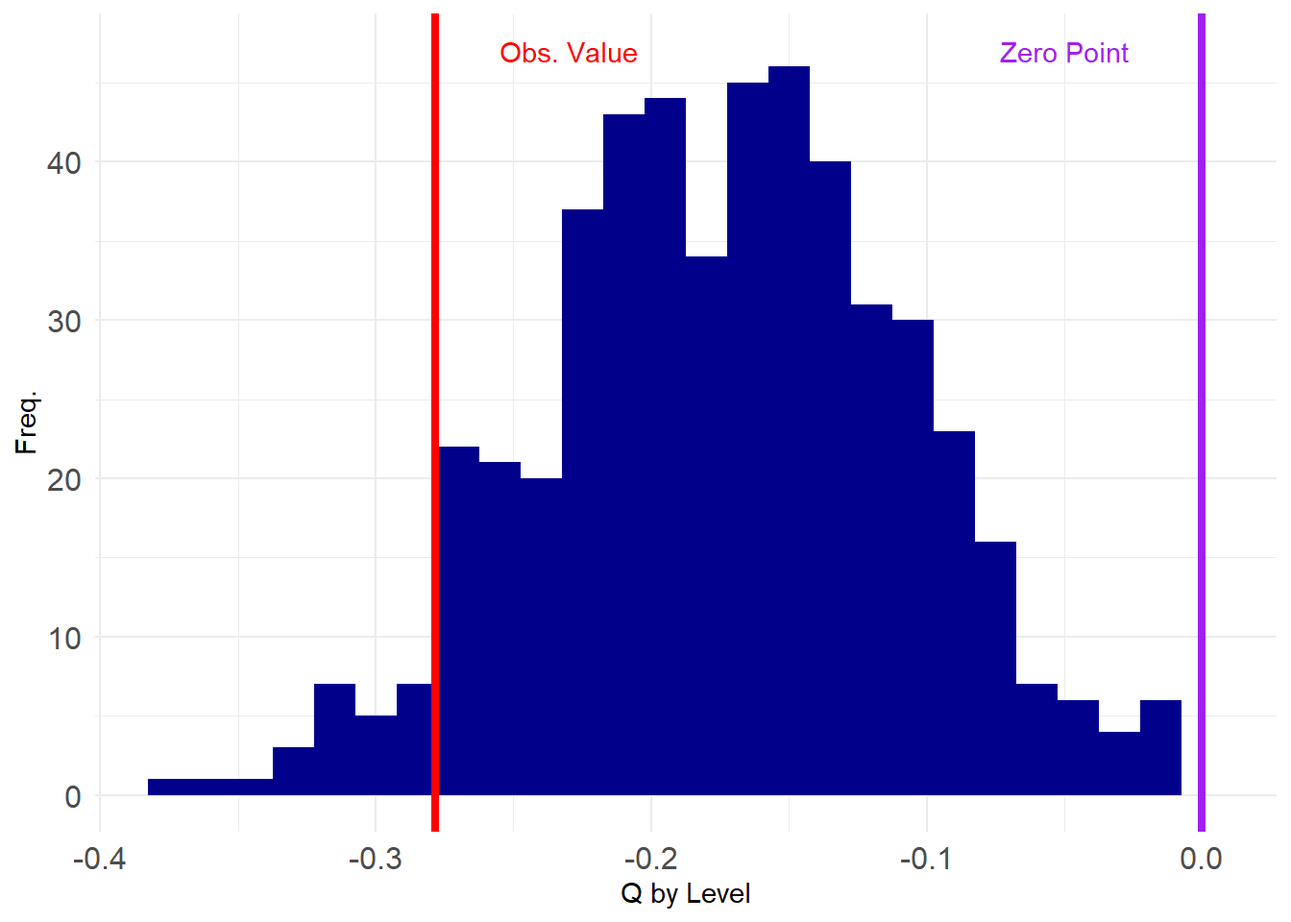
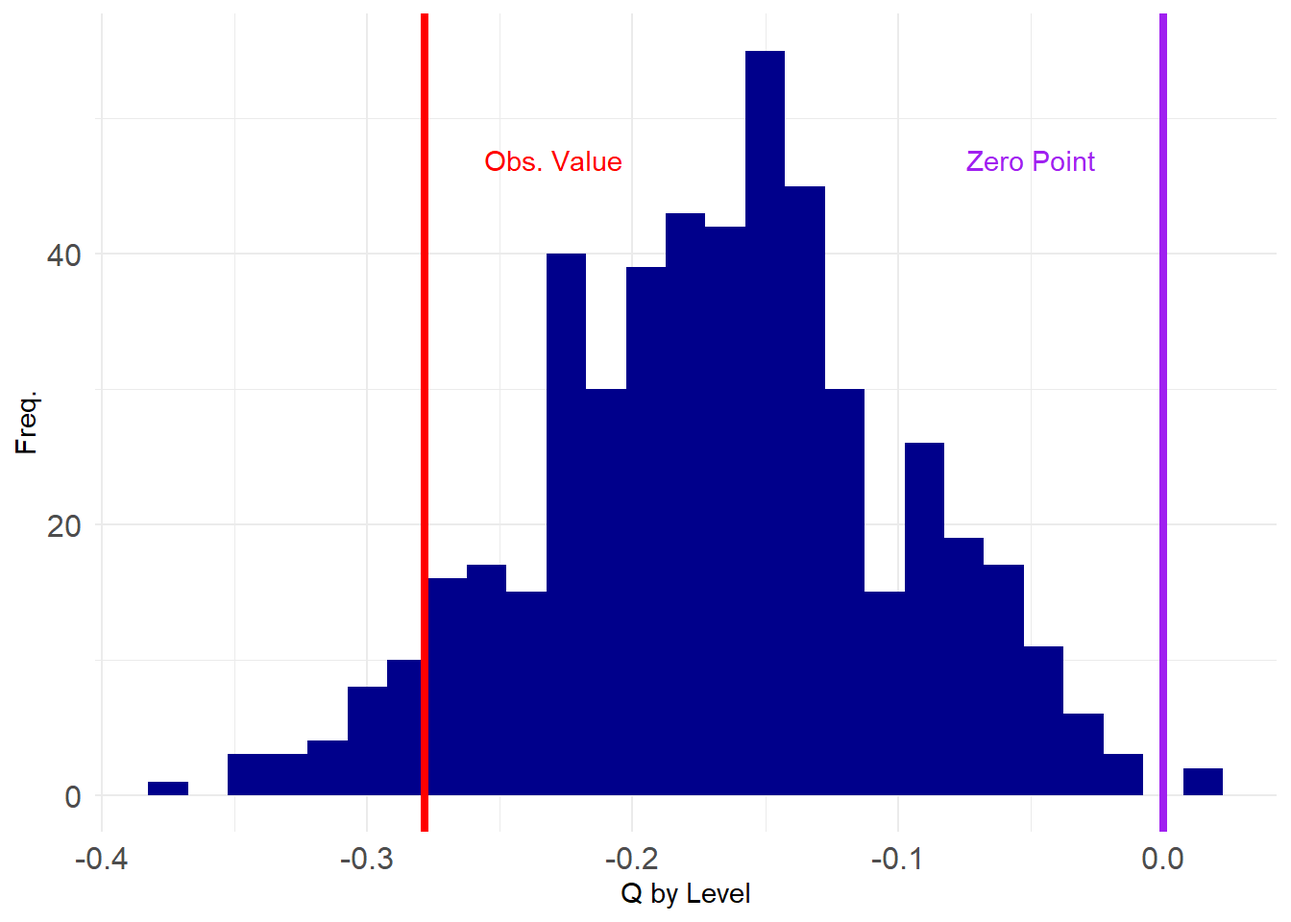
new stuff who dis

diff --git a/docs/tm-null.html b/docs/tm-null.html
@@ -401,7 +401,7 @@ div.csl-indent {
 <p>Not surprisingly, a similar suite of techniques exist for the two-mode case, but until recently various approaches were scattered (and reduplicated) across a bunch of literatures in social network analysis, ecology, network physics, and computer science <span class="citation" data-cites="neal_etal24">(<a href="#ref-neal_etal24" role="doc-biblioref">Neal et al. 2024</a>)</span>.</p>
 <section id="two-mode-erdos-renyi-model" class="level2">
 <h2 class="anchored" data-anchor-id="two-mode-erdos-renyi-model">Two-Mode Erdos-Renyi Model</h2>
-<p>Like with one-mode networks, the simplest null model for two-mode networks is one that preserves the number of nodes and the number of edges. This model, like we saw before, also preserves anything that is a function of these two-quantities. In the two-mode case, this is the bipartite graph’s <strong>density</strong> and the average degrees of the nodes in each mode (recall that two-mode networks have two average degrees). This is thus a two-mode version of the <strong>Erdos-Renyi</strong> null model.</p>
+<p>Like with one-mode networks, the simplest null model for two-mode networks is one that preserves the number of nodes and the number of edges. This model, like we saw in the one-mode network case, also preserves anything that is a function of these two-quantities. In the two-mode case, this is the bipartite graph’s <strong>density</strong> and the average degrees of the nodes in each mode (recall that two-mode networks have two average degrees). This is thus a two-mode version of the <strong>Erdos-Renyi</strong> null model.</p>
 <p>Let’s load up the <em>Southern Women</em> (SW) data and see how it works:</p>
 <div class="cell">
 <div class="sourceCode cell-code" id="cb1"><pre class="sourceCode numberSource r number-lines code-with-copy"><code class="sourceCode r"><span id="cb1-1"><a href="#cb1-1"></a>   <span class="fu">library</span>(igraph)</span>
@@ -441,7 +441,7 @@ div.csl-indent {
 </div>
 <p>Which is negative, suggesting degree <strong>anti-correlation</strong> in this network (people with lots of memberships tend to belong to smaller groups).</p>
 <p>Is this value statistically significant net of the network density? To find out, we need to create a <strong>two-mode graph ensemble</strong> of networks with the same density, number of persons, and number of groups as SW.</p>
-<p>A simple approach goes like this: first, let’s create a vectorized version of the adjacency matrix:</p>
+<p>A simple approach goes like this: First, let’s create a vectorized version of the adjacency matrix:</p>
 <div class="cell">
 <div class="sourceCode cell-code" id="cb10"><pre class="sourceCode numberSource r number-lines code-with-copy"><code class="sourceCode r"><span id="cb10-1"><a href="#cb10-1"></a>   v.a <span class="ot">&lt;-</span> <span class="fu">as.vector</span>(A)</span>
 <span id="cb10-2"><a href="#cb10-2"></a>   v.a</span></code><button title="Copy to Clipboard" class="code-copy-button"><i class="bi"></i></button></pre></div>
@@ -455,7 +455,7 @@ div.csl-indent {
 [223] 0 0 0 0 0 1 1 1 0 0 0 0 0 0 0 0 0 0 0 0 0 0 0 1 1 1 0 0 0 0</code></pre>
 </div>
 </div>
-<p>These are the biadjacency matrix entries stretched out into a long vector of length equals to the number of rows multiplied by the number of columns of the matrix.</p>
+<p>These are the biadjacency matrix entries stretched out into a long vector of length equal to the number of rows multiplied by the number of columns of the matrix.</p>
 <p>Then we just reshuffle the values of this vector by sampling vector positions:</p>
 <div class="cell">
 <div class="sourceCode cell-code" id="cb12"><pre class="sourceCode numberSource r number-lines code-with-copy"><code class="sourceCode r"><span id="cb12-1"><a href="#cb12-1"></a>   v.shuff <span class="ot">&lt;-</span> v.a[<span class="fu">sample</span>(<span class="dv">1</span><span class="sc">:</span><span class="fu">length</span>(v.a))]</span></code><button title="Copy to Clipboard" class="code-copy-button"><i class="bi"></i></button></pre></div>
@@ -468,24 +468,24 @@ div.csl-indent {
 <span id="cb13-4"><a href="#cb13-4"></a>   A.perm</span></code><button title="Copy to Clipboard" class="code-copy-button"><i class="bi"></i></button></pre></div>
 <div class="cell-output cell-output-stdout">
 <pre><code>          6/27 3/2 4/12 9/26 2/25 5/19 3/15 9/16 4/8 6/10 2/23 4/7 11/21 8/3
-EVELYN       0   1    1    1    0    0    1    0   0    0    0   0     0   0
-LAURA        1   0    0    0    0    1    0    1   1    1    0   1     0   0
-THERESA      0   0    0    0    0    0    0    0   1    0    1   0     0   1
-BRENDA       1   0    0    0    1    0    0    1   0    0    0   0     1   1
-CHARLOTTE    0   0    1    0    0    0    1    0   0    0    1   0     1   1
-FRANCES      1   0    0    1    0    1    1    1   0    1    0   0     0   1
-ELEANOR      0   1    0    0    0    1    0    0   1    0    0   0     0   0
-PEARL        0   0    1    1    1    0    1    0   0    0    0   1     0   0
-RUTH         0   0    0    1    0    0    0    0   0    0    0   0     1   0
-VERNE        1   1    1    1    0    1    1    0   1    0    0   1     0   0
-MYRNA        0   1    1    0    0    0    0    0   1    1    0   1     0   1
-KATHERINE    0   1    0    0    1    1    1    0   1    0    0   1     1   0
-SYLVIA       0   0    0    1    0    0    0    1   1    0    1   0     0   0
-NORA         0   0    1    0    1    1    0    0   1    0    0   0     1   0
-HELEN        1   0    1    0    0    1    0    1   0    0    0   0     1   0
-DOROTHY      1   0    0    0    1    1    1    0   0    1    1   0     0   0
-OLIVIA       1   0    0    0    0    0    0    0   0    1    1   0     0   0
-FLORA        0   0    1    0    0    0    1    0   0    0    1   1     1   0</code></pre>
+EVELYN       0   0    1    0    0    0    1    0   1    0    0   1     1   0
+LAURA        0   0    0    1    0    0    1    0   0    0    0   0     1   1
+THERESA      1   0    1    1    0    0    0    0   1    0    1   0     0   0
+BRENDA       0   1    0    0    0    0    0    1   1    1    1   0     0   0
+CHARLOTTE    0   1    1    0    1    0    0    0   0    0    0   0     0   1
+FRANCES      0   1    0    0    0    0    1    1   0    0    0   0     1   0
+ELEANOR      0   1    0    0    1    0    1    0   1    0    0   0     0   1
+PEARL        1   0    1    0    1    0    0    0   1    0    1   0     1   1
+RUTH         0   0    0    0    0    0    0    1   0    0    1   0     0   1
+VERNE        0   0    0    1    1    1    0    1   0    0    1   1     1   1
+MYRNA        0   1    1    0    0    1    1    1   1    0    0   1     0   1
+KATHERINE    0   0    1    1    0    1    0    1   0    0    0   0     0   1
+SYLVIA       1   0    1    0    1    0    0    0   0    1    0   0     0   0
+NORA         0   1    1    1    0    0    0    0   1    1    0   0     0   0
+HELEN        0   0    1    0    1    0    1    0   1    0    1   0     0   0
+DOROTHY      1   0    1    0    1    1    0    0   0    0    0   0     0   0
+OLIVIA       0   1    0    0    0    1    1    0   0    0    0   0     0   1
+FLORA        1   0    0    0    0    0    0    1   0    1    0   0     0   1</code></pre>
 </div>
 </div>
 <p>We can verify that <code>A.perm</code> has the same basic network statistics as <code>A</code>:</p>
@@ -520,11 +520,11 @@ FLORA        0   0    1    0    0    0    1    0   0    0    1   1     1   0</co
 <div class="sourceCode cell-code" id="cb23"><pre class="sourceCode numberSource r number-lines code-with-copy"><code class="sourceCode r"><span id="cb23-1"><a href="#cb23-1"></a>   <span class="fu">rowSums</span>(A.perm)</span></code><button title="Copy to Clipboard" class="code-copy-button"><i class="bi"></i></button></pre></div>
 <div class="cell-output cell-output-stdout">
 <pre><code>   EVELYN     LAURA   THERESA    BRENDA CHARLOTTE   FRANCES   ELEANOR     PEARL 
-        4         6         3         5         5         7         3         5 
+        5         4         5         5         4         4         5         7 
      RUTH     VERNE     MYRNA KATHERINE    SYLVIA      NORA     HELEN   DOROTHY 
-        2         8         6         7         4         5         5         6 
+        3         8         8         5         4         5         5         4 
    OLIVIA     FLORA 
-        3         5 </code></pre>
+        4         4 </code></pre>
 </div>
 <div class="sourceCode cell-code" id="cb25"><pre class="sourceCode numberSource r number-lines code-with-copy"><code class="sourceCode r"><span id="cb25-1"><a href="#cb25-1"></a>   <span class="fu">colSums</span>(A)</span></code><button title="Copy to Clipboard" class="code-copy-button"><i class="bi"></i></button></pre></div>
 <div class="cell-output cell-output-stdout">
@@ -536,9 +536,9 @@ FLORA        0   0    1    0    0    0    1    0   0    0    1   1     1   0</co
 <div class="sourceCode cell-code" id="cb27"><pre class="sourceCode numberSource r number-lines code-with-copy"><code class="sourceCode r"><span id="cb27-1"><a href="#cb27-1"></a>   <span class="fu">colSums</span>(A.perm)</span></code><button title="Copy to Clipboard" class="code-copy-button"><i class="bi"></i></button></pre></div>
 <div class="cell-output cell-output-stdout">
 <pre><code> 6/27   3/2  4/12  9/26  2/25  5/19  3/15  9/16   4/8  6/10  2/23   4/7 11/21 
-    7     5     8     6     5     8     8     5     8     5     6     6     7 
+    5     7    10     5     7     5     7     7     8     4     6     3     5 
   8/3 
-    5 </code></pre>
+   10 </code></pre>
 </div>
 </div>
 <p>We can now package the two-mode permutation steps into a function called <code>tm.perm</code>:</p>
@@ -802,7 +802,7 @@ FALSE </code></pre>
 <pre><code>[1] 0.012</code></pre>
 </div>
 </div>
-<p>Note that our result is not longer statistically significant at the <span class="math inline">\(p &lt;0.01\)</span> level, but it can be defended at the <span class="math inline">\(p &lt; 0.05\)</span> level. Still a chance of getting published.</p>
+<p>Note that our result is no longer statistically significant at the <span class="math inline">\(p &lt;0.01\)</span> level, but it can be defended at the <span class="math inline">\(p &lt; 0.05\)</span> level. Still a chance of getting published.</p>
 </section>
 <section id="fixing-column-degrees" class="level3">
 <h3 class="anchored" data-anchor-id="fixing-column-degrees">Fixing Column Degrees</h3>
@@ -920,31 +920,32 @@ FALSE </code></pre>
 <div class="sourceCode cell-code" id="cb83"><pre class="sourceCode numberSource r number-lines code-with-copy"><code class="sourceCode r"><span id="cb83-1"><a href="#cb83-1"></a>   make.swap <span class="ot">&lt;-</span> <span class="cf">function</span>(x, <span class="at">k =</span> <span class="dv">500</span>) {</span>
 <span id="cb83-2"><a href="#cb83-2"></a>      z <span class="ot">&lt;-</span> <span class="dv">1</span> <span class="co">#initializing counter</span></span>
 <span id="cb83-3"><a href="#cb83-3"></a>      <span class="cf">while</span>(z <span class="sc">&lt;=</span> k) {</span>
-<span id="cb83-4"><a href="#cb83-4"></a>         a <span class="ot">&lt;-</span> <span class="fu">sample</span>(<span class="fu">rownames</span>(x), <span class="dv">1</span>) <span class="co">#selecting random person </span></span>
-<span id="cb83-5"><a href="#cb83-5"></a>         b <span class="ot">&lt;-</span> <span class="fu">sample</span>(<span class="fu">rownames</span>(x), <span class="dv">1</span>) <span class="co">#selecting random person</span></span>
-<span id="cb83-6"><a href="#cb83-6"></a>         a.m <span class="ot">&lt;-</span> <span class="fu">names</span>(<span class="fu">which</span>(x[a, ] <span class="sc">==</span> <span class="dv">1</span>)) <span class="co">#person a's memberships</span></span>
-<span id="cb83-7"><a href="#cb83-7"></a>         b.m <span class="ot">&lt;-</span> <span class="fu">names</span>(<span class="fu">which</span>(x[b, ] <span class="sc">==</span> <span class="dv">1</span>)) <span class="co">#person b's memberships</span></span>
-<span id="cb83-8"><a href="#cb83-8"></a>         ab <span class="ot">&lt;-</span> <span class="fu">setdiff</span>(a.m, b.m) <span class="co">#memberships that a has that b does not</span></span>
-<span id="cb83-9"><a href="#cb83-9"></a>         ba <span class="ot">&lt;-</span> <span class="fu">setdiff</span>(b.m, a.m) <span class="co">#memberships that b has that a does not</span></span>
-<span id="cb83-10"><a href="#cb83-10"></a>         w <span class="ot">&lt;-</span> <span class="fu">sample</span>(<span class="dv">0</span><span class="sc">:</span><span class="fu">min</span>(<span class="fu">length</span>(ab), <span class="fu">length</span>(ba)), <span class="at">size =</span> <span class="dv">1</span>) <span class="co">#number of rounds of trade</span></span>
-<span id="cb83-11"><a href="#cb83-11"></a>         <span class="cf">if</span> (w <span class="sc">&gt;</span> <span class="dv">0</span>) {</span>
-<span id="cb83-12"><a href="#cb83-12"></a>            <span class="cf">for</span> (i <span class="cf">in</span> <span class="dv">1</span><span class="sc">:</span>w) {</span>
-<span id="cb83-13"><a href="#cb83-13"></a>               ab.m <span class="ot">&lt;-</span> <span class="fu">sample</span>(ab, <span class="dv">1</span>) <span class="co">#membership that a will transfer to b</span></span>
-<span id="cb83-14"><a href="#cb83-14"></a>               ba.m <span class="ot">&lt;-</span> <span class="fu">sample</span>(ba, <span class="dv">1</span>) <span class="co">#membership that b will transfer to a</span></span>
-<span id="cb83-15"><a href="#cb83-15"></a>               x[a, ab.m] <span class="ot">&lt;-</span> <span class="dv">0</span> <span class="co">#a loses membership</span></span>
-<span id="cb83-16"><a href="#cb83-16"></a>               x[b, ab.m] <span class="ot">&lt;-</span> <span class="dv">1</span> <span class="co">#b gains membership</span></span>
-<span id="cb83-17"><a href="#cb83-17"></a>               x[b, ba.m] <span class="ot">&lt;-</span> <span class="dv">0</span> <span class="co">#b loses membership</span></span>
-<span id="cb83-18"><a href="#cb83-18"></a>               x[a, ba.m] <span class="ot">&lt;-</span> <span class="dv">1</span> <span class="co">#a gains membership</span></span>
-<span id="cb83-19"><a href="#cb83-19"></a>               a.m <span class="ot">&lt;-</span> <span class="fu">names</span>(<span class="fu">which</span>(x[a, ] <span class="sc">==</span> <span class="dv">1</span>)) <span class="co">#updating a's memberships</span></span>
-<span id="cb83-20"><a href="#cb83-20"></a>               b.m <span class="ot">&lt;-</span> <span class="fu">names</span>(<span class="fu">which</span>(x[b, ] <span class="sc">==</span> <span class="dv">1</span>)) <span class="co">#updating b's memberships</span></span>
-<span id="cb83-21"><a href="#cb83-21"></a>               ab <span class="ot">&lt;-</span> <span class="fu">setdiff</span>(a.m, b.m) <span class="co">#updating differences between a and b's memberships</span></span>
-<span id="cb83-22"><a href="#cb83-22"></a>               ba <span class="ot">&lt;-</span> <span class="fu">setdiff</span>(b.m, a.m) <span class="co">#updating differences between b and a's memberships</span></span>
-<span id="cb83-23"><a href="#cb83-23"></a>               }</span>
-<span id="cb83-24"><a href="#cb83-24"></a>            }</span>
-<span id="cb83-25"><a href="#cb83-25"></a>         z <span class="ot">&lt;-</span> z <span class="sc">+</span> <span class="dv">1</span> <span class="co">#incrementing counter</span></span>
-<span id="cb83-26"><a href="#cb83-26"></a>         }</span>
-<span id="cb83-27"><a href="#cb83-27"></a>      <span class="fu">return</span>(x)</span>
-<span id="cb83-28"><a href="#cb83-28"></a>   }</span></code><button title="Copy to Clipboard" class="code-copy-button"><i class="bi"></i></button></pre></div>
+<span id="cb83-4"><a href="#cb83-4"></a>         n <span class="ot">&lt;-</span> <span class="fu">sample</span>(<span class="fu">rownames</span>(x), <span class="dv">2</span>) <span class="co">#sampling two people at random</span></span>
+<span id="cb83-5"><a href="#cb83-5"></a>         a <span class="ot">&lt;-</span> n[<span class="dv">1</span>] <span class="co">#person a</span></span>
+<span id="cb83-6"><a href="#cb83-6"></a>         b <span class="ot">&lt;-</span> n[<span class="dv">2</span>] <span class="co">#person b</span></span>
+<span id="cb83-7"><a href="#cb83-7"></a>         a.m <span class="ot">&lt;-</span> <span class="fu">names</span>(<span class="fu">which</span>(x[a, ] <span class="sc">==</span> <span class="dv">1</span>)) <span class="co">#person a's memberships</span></span>
+<span id="cb83-8"><a href="#cb83-8"></a>         b.m <span class="ot">&lt;-</span> <span class="fu">names</span>(<span class="fu">which</span>(x[b, ] <span class="sc">==</span> <span class="dv">1</span>)) <span class="co">#person b's memberships</span></span>
+<span id="cb83-9"><a href="#cb83-9"></a>         ab <span class="ot">&lt;-</span> <span class="fu">setdiff</span>(a.m, b.m) <span class="co">#memberships that a has that b does not</span></span>
+<span id="cb83-10"><a href="#cb83-10"></a>         ba <span class="ot">&lt;-</span> <span class="fu">setdiff</span>(b.m, a.m) <span class="co">#memberships that b has that a does not</span></span>
+<span id="cb83-11"><a href="#cb83-11"></a>         w <span class="ot">&lt;-</span> <span class="fu">sample</span>(<span class="dv">0</span><span class="sc">:</span><span class="fu">min</span>(<span class="fu">length</span>(ab), <span class="fu">length</span>(ba)), <span class="at">size =</span> <span class="dv">1</span>) <span class="co">#number of rounds of trade</span></span>
+<span id="cb83-12"><a href="#cb83-12"></a>         <span class="cf">if</span> (w <span class="sc">&gt;</span> <span class="dv">0</span>) {</span>
+<span id="cb83-13"><a href="#cb83-13"></a>            <span class="cf">for</span> (i <span class="cf">in</span> <span class="dv">1</span><span class="sc">:</span>w) {</span>
+<span id="cb83-14"><a href="#cb83-14"></a>               ab.m <span class="ot">&lt;-</span> <span class="fu">sample</span>(ab, <span class="dv">1</span>) <span class="co">#membership that a will transfer to b</span></span>
+<span id="cb83-15"><a href="#cb83-15"></a>               ba.m <span class="ot">&lt;-</span> <span class="fu">sample</span>(ba, <span class="dv">1</span>) <span class="co">#membership that b will transfer to a</span></span>
+<span id="cb83-16"><a href="#cb83-16"></a>               x[a, ab.m] <span class="ot">&lt;-</span> <span class="dv">0</span> <span class="co">#a loses membership</span></span>
+<span id="cb83-17"><a href="#cb83-17"></a>               x[b, ab.m] <span class="ot">&lt;-</span> <span class="dv">1</span> <span class="co">#b gains membership</span></span>
+<span id="cb83-18"><a href="#cb83-18"></a>               x[b, ba.m] <span class="ot">&lt;-</span> <span class="dv">0</span> <span class="co">#b loses membership</span></span>
+<span id="cb83-19"><a href="#cb83-19"></a>               x[a, ba.m] <span class="ot">&lt;-</span> <span class="dv">1</span> <span class="co">#a gains membership</span></span>
+<span id="cb83-20"><a href="#cb83-20"></a>               a.m <span class="ot">&lt;-</span> <span class="fu">names</span>(<span class="fu">which</span>(x[a, ] <span class="sc">==</span> <span class="dv">1</span>)) <span class="co">#updating a's memberships</span></span>
+<span id="cb83-21"><a href="#cb83-21"></a>               b.m <span class="ot">&lt;-</span> <span class="fu">names</span>(<span class="fu">which</span>(x[b, ] <span class="sc">==</span> <span class="dv">1</span>)) <span class="co">#updating b's memberships</span></span>
+<span id="cb83-22"><a href="#cb83-22"></a>               ab <span class="ot">&lt;-</span> <span class="fu">setdiff</span>(a.m, b.m) <span class="co">#updating differences between a and b's memberships</span></span>
+<span id="cb83-23"><a href="#cb83-23"></a>               ba <span class="ot">&lt;-</span> <span class="fu">setdiff</span>(b.m, a.m) <span class="co">#updating differences between b and a's memberships</span></span>
+<span id="cb83-24"><a href="#cb83-24"></a>               }</span>
+<span id="cb83-25"><a href="#cb83-25"></a>            }</span>
+<span id="cb83-26"><a href="#cb83-26"></a>         z <span class="ot">&lt;-</span> z <span class="sc">+</span> <span class="dv">1</span> <span class="co">#incrementing counter</span></span>
+<span id="cb83-27"><a href="#cb83-27"></a>         }</span>
+<span id="cb83-28"><a href="#cb83-28"></a>      <span class="fu">return</span>(x)</span>
+<span id="cb83-29"><a href="#cb83-29"></a>   }</span></code><button title="Copy to Clipboard" class="code-copy-button"><i class="bi"></i></button></pre></div>
 </div>
 <p>Here’s an example:</p>
 <div class="cell">
@@ -952,24 +953,24 @@ FALSE </code></pre>
 <span id="cb84-2"><a href="#cb84-2"></a>   A.s</span></code><button title="Copy to Clipboard" class="code-copy-button"><i class="bi"></i></button></pre></div>
 <div class="cell-output cell-output-stdout">
 <pre><code>          6/27 3/2 4/12 9/26 2/25 5/19 3/15 9/16 4/8 6/10 2/23 4/7 11/21 8/3
-EVELYN       0   1    1    0    0    1    1    1   0    1    0   1     0   1
-LAURA        0   1    0    0    1    1    0    1   0    1    1   1     0   0
-THERESA      0   0    0    1    1    0    1    1   1    1    0   1     1   0
-BRENDA       0   1    0    0    1    1    1    1   1    0    1   0     0   0
-CHARLOTTE    0   0    0    0    1    0    0    1   1    0    0   0     0   1
-FRANCES      0   0    0    0    0    1    1    1   1    0    0   0     0   0
-ELEANOR      0   0    1    0    1    1    0    0   1    0    0   0     0   0
-PEARL        0   0    0    0    0    1    1    1   0    0    0   0     0   0
-RUTH         1   0    0    0    1    0    0    0   1    1    0   0     0   0
-VERNE        0   0    0    0    0    0    1    1   1    0    0   1     0   0
-MYRNA        0   0    1    0    0    0    1    1   1    0    0   0     0   0
-KATHERINE    1   0    0    1    0    0    1    0   1    0    1   0     0   1
-SYLVIA       1   0    1    0    0    1    0    1   0    0    1   1     1   0
-NORA         0   0    1    1    0    1    1    1   1    0    0   1     1   0
-HELEN        0   0    1    1    1    0    1    1   0    0    0   0     0   0
-DOROTHY      0   0    0    0    0    0    0    1   1    0    0   0     0   0
-OLIVIA       0   0    0    0    1    0    0    1   0    0    0   0     0   0
-FLORA        0   0    0    0    0    0    0    0   1    1    0   0     0   0</code></pre>
+EVELYN       1   0    1    1    1    0    0    1   1    0    0   1     1   0
+LAURA        0   1    0    0    1    0    0    1   1    0    1   1     0   1
+THERESA      0   0    1    0    0    0    1    1   1    1    0   1     1   1
+BRENDA       1   0    1    0    0    1    0    1   1    1    1   0     0   0
+CHARLOTTE    0   0    0    0    1    1    0    1   1    0    0   0     0   0
+FRANCES      0   0    0    0    0    1    1    1   0    1    0   0     0   0
+ELEANOR      0   0    0    0    0    1    1    1   0    0    0   1     0   0
+PEARL        0   0    0    1    0    0    0    1   1    0    0   0     0   0
+RUTH         0   0    0    0    1    0    1    1   1    0    0   0     0   0
+VERNE        0   0    0    1    0    0    0    1   0    1    0   0     0   1
+MYRNA        0   0    0    0    0    0    1    1   0    1    0   1     0   0
+KATHERINE    0   1    1    0    1    0    1    1   1    0    0   0     0   0
+SYLVIA       1   0    1    1    0    1    0    1   1    0    0   0     1   0
+NORA         0   1    0    0    1    1    1    1   1    0    1   1     0   0
+HELEN        0   0    1    0    1    1    1    0   1    0    0   0     0   0
+DOROTHY      0   0    0    0    0    1    1    0   0    0    0   0     0   0
+OLIVIA       0   0    0    0    1    0    0    0   0    0    1   0     0   0
+FLORA        0   0    0    0    0    0    1    0   1    0    0   0     0   0</code></pre>
 </div>
 </div>
 <p>We can see that while the specifc entries of the swapped biadjacency matrix <code>A.s</code> are different from those of the original matrix <code>A</code> both the row and column degrees are preserved:</p>
@@ -1028,7 +1029,8 @@ FLORA        0   0    0    0    0    0    0    0   1    1    0   0     0   0</co
 <p><img src="tm-null_files/figure-html/unnamed-chunk-35-1.png" class="img-fluid" width="672"></p>
 </div>
 </div>
-<p>Note that once we fix the person and group degrees, all the degree correlations observed in the ensemble are negative (below zero). The observed value also does not look as extreme as with the Erdos-Renyi or fixed degree model for either rows or columns separately. Let’s check the p-value:</p>
+<p>Note that once we fix the person and group degrees, most of the degree correlations observed in the ensemble are negative (below zero). The observed value also does not look as extreme as with the Erdos-Renyi or fixed degree model for either rows or columns separately.</p>
+<p>Let’s check the p-value at <span class="math inline">\(p &lt; 0.01\)</span>:</p>
 <div class="cell">
 <div class="sourceCode cell-code" id="cb95"><pre class="sourceCode numberSource r number-lines code-with-copy"><code class="sourceCode r"><span id="cb95-1"><a href="#cb95-1"></a>   <span class="fu">quantile</span>(corrs, <span class="at">probs =</span> <span class="fl">0.01</span>)</span></code><button title="Copy to Clipboard" class="code-copy-button"><i class="bi"></i></button></pre></div>
 <div class="cell-output cell-output-stdout">
@@ -1040,12 +1042,28 @@ FLORA        0   0    0    0    0    0    0    0   1    1    0   0     0   0</co
 <pre><code>   1% 
 FALSE </code></pre>
 </div>
-<div class="sourceCode cell-code" id="cb99"><pre class="sourceCode numberSource r number-lines code-with-copy"><code class="sourceCode r"><span id="cb99-1"><a href="#cb99-1"></a>   <span class="dv">1</span> <span class="sc">-</span> <span class="fu">ecdf</span>(<span class="fu">abs</span>(corrs))(<span class="fu">abs</span>(<span class="fu">tm.deg.corr</span>(A)))</span></code><button title="Copy to Clipboard" class="code-copy-button"><i class="bi"></i></button></pre></div>
+</div>
+<p>Not close to significant it seems. How about <span class="math inline">\(p &lt; 0.05\)</span>?</p>
+<div class="cell">
+<div class="sourceCode cell-code" id="cb99"><pre class="sourceCode numberSource r number-lines code-with-copy"><code class="sourceCode r"><span id="cb99-1"><a href="#cb99-1"></a>   <span class="fu">quantile</span>(corrs, <span class="at">probs =</span> <span class="fl">0.05</span>)</span></code><button title="Copy to Clipboard" class="code-copy-button"><i class="bi"></i></button></pre></div>
 <div class="cell-output cell-output-stdout">
-<pre><code>[1] 0.048</code></pre>
+<pre><code>        5% 
+-0.2830088 </code></pre>
+</div>
+<div class="sourceCode cell-code" id="cb101"><pre class="sourceCode numberSource r number-lines code-with-copy"><code class="sourceCode r"><span id="cb101-1"><a href="#cb101-1"></a>   <span class="fu">tm.deg.corr</span>(A) <span class="sc">&lt;</span> <span class="fu">quantile</span>(corrs, <span class="at">probs =</span> <span class="fl">0.05</span>)</span></code><button title="Copy to Clipboard" class="code-copy-button"><i class="bi"></i></button></pre></div>
+<div class="cell-output cell-output-stdout">
+<pre><code>   5% 
+FALSE </code></pre>
 </div>
 </div>
-<p>While the observed value is not significant using the threshold of <span class="math inline">\(p &lt; 0.05\)</span>, it is just under the conventional threshold of significance at <span class="math inline">\(p &lt; 0.05\)</span>! Publication hopes survive.</p>
+<p>That does not seem to work either! What’s the actual p-value?</p>
+<div class="cell">
+<div class="sourceCode cell-code" id="cb103"><pre class="sourceCode numberSource r number-lines code-with-copy"><code class="sourceCode r"><span id="cb103-1"><a href="#cb103-1"></a>   <span class="dv">1</span> <span class="sc">-</span> <span class="fu">ecdf</span>(<span class="fu">abs</span>(corrs))(<span class="fu">abs</span>(<span class="fu">tm.deg.corr</span>(A)))</span></code><button title="Copy to Clipboard" class="code-copy-button"><i class="bi"></i></button></pre></div>
+<div class="cell-output cell-output-stdout">
+<pre><code>[1] 0.056</code></pre>
+</div>
+</div>
+<p>As suspected the two-tailed test indicates that the hypothesis of degree anti-correlation is no longer justified in these data even using a criterion of <span class="math inline">\(p &lt; 0.05\)</span>. Looks like our paper won’t be published after all :(</p>
 
 
 
